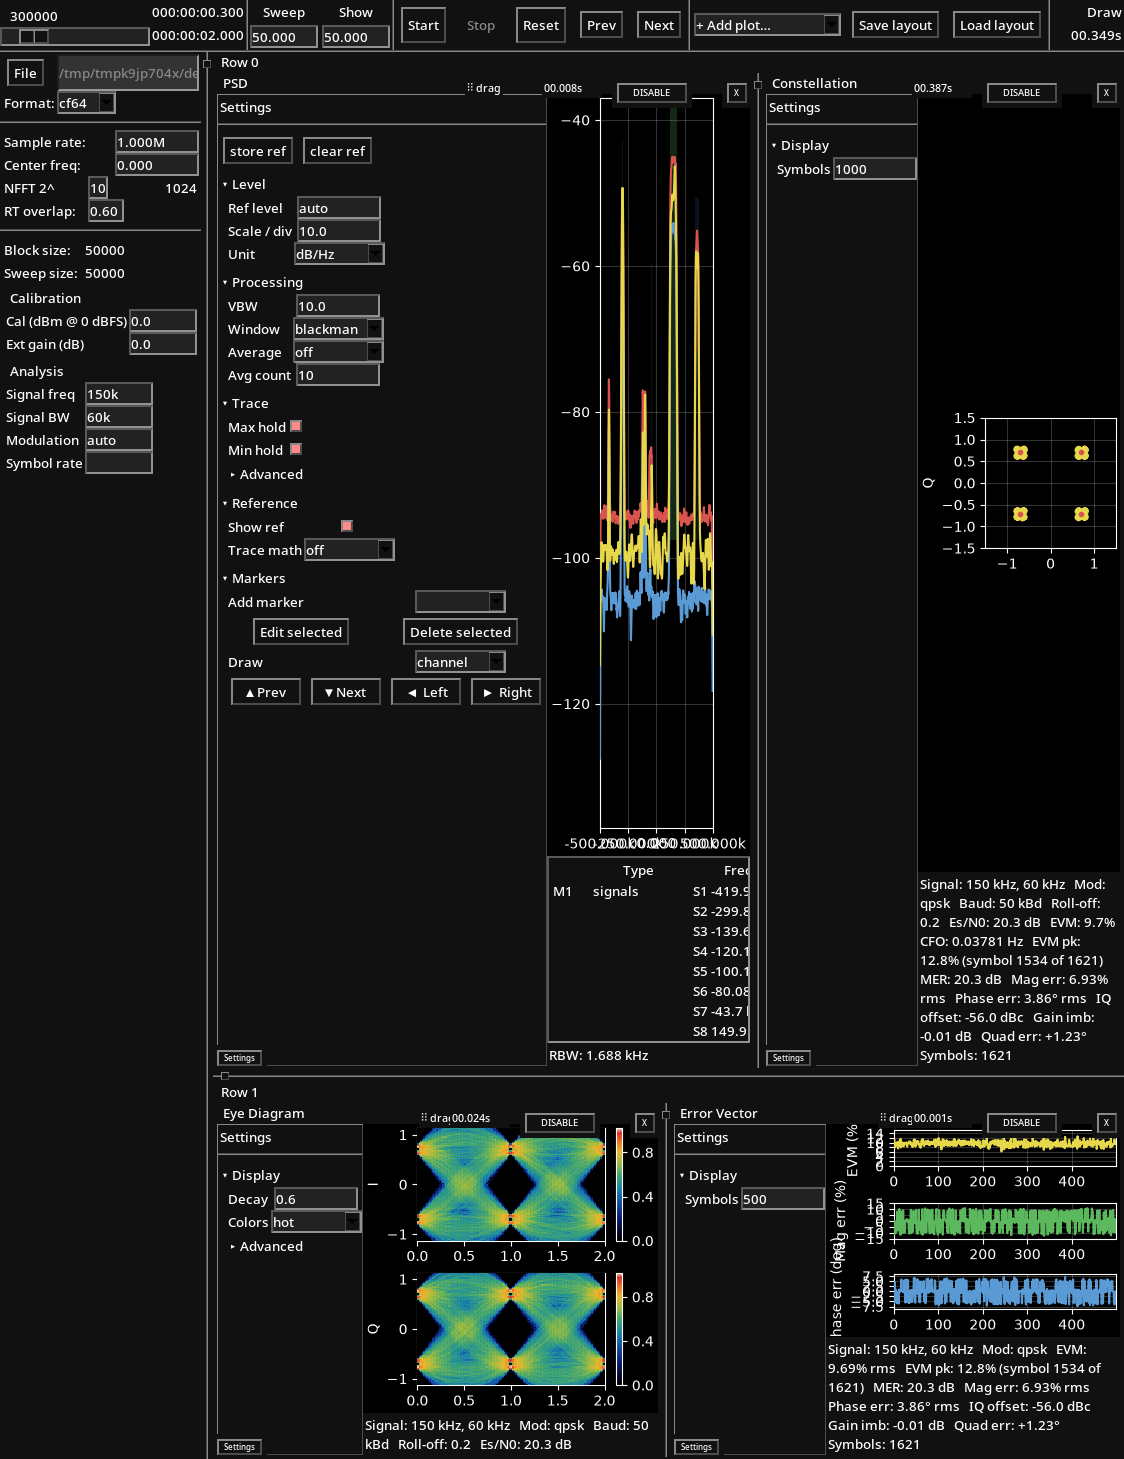
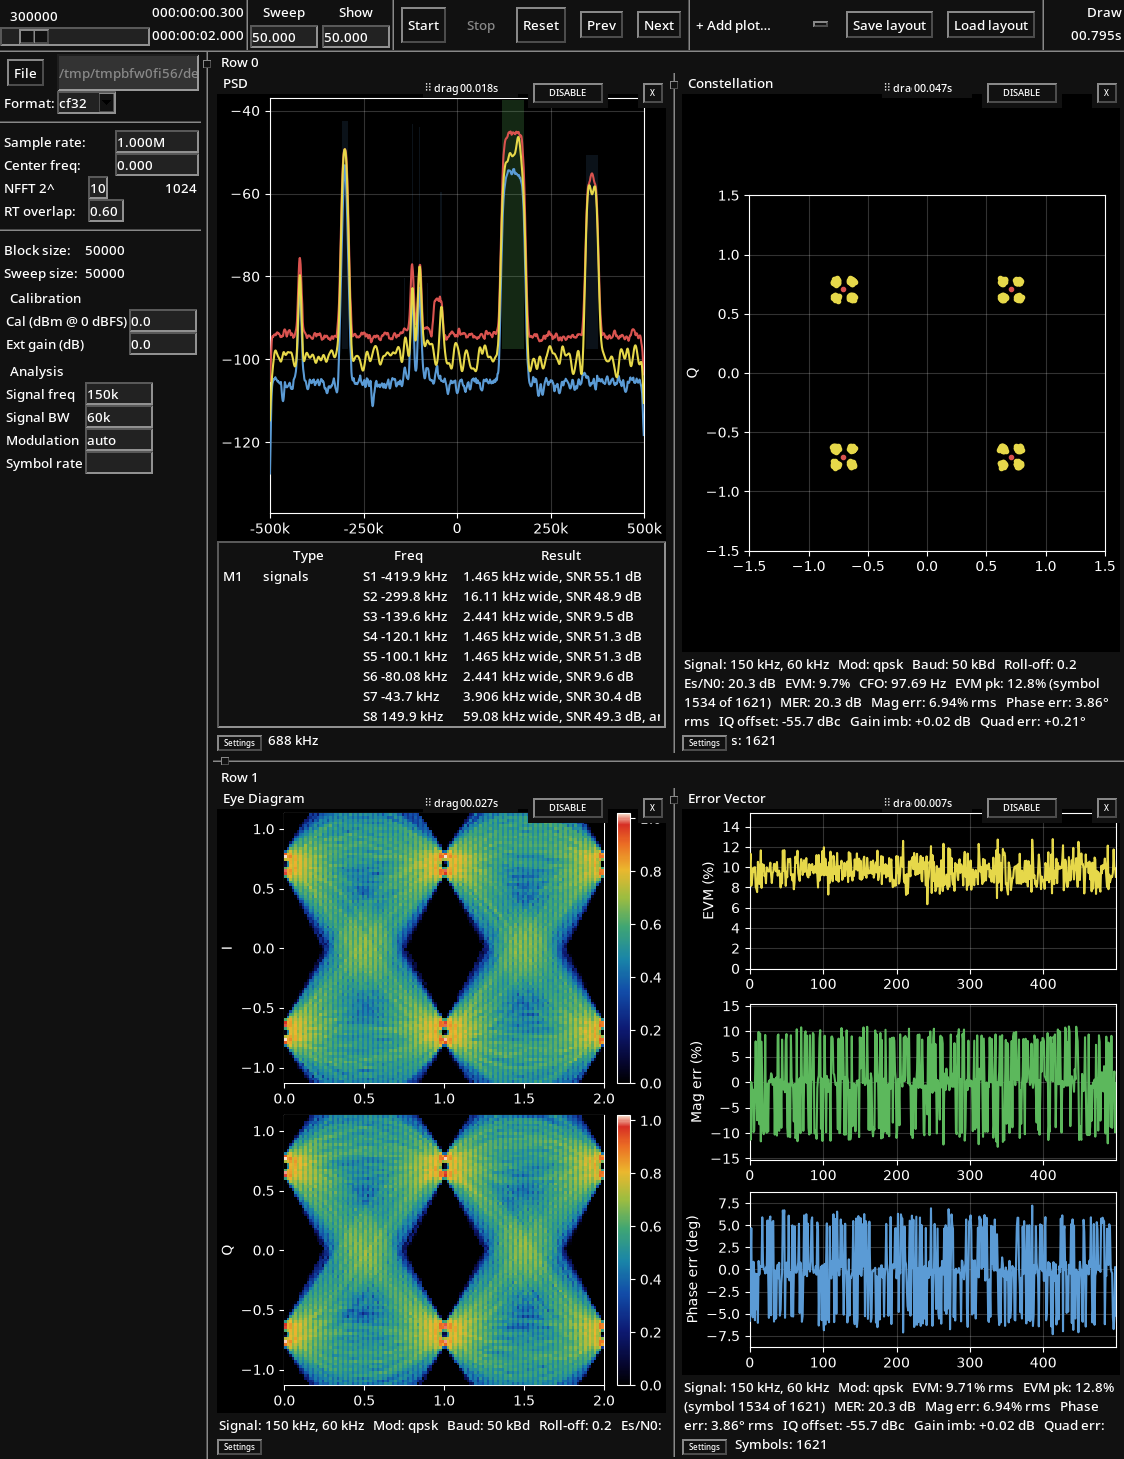
Gallery tk screenshots without settings columns; every plot listed in the plots guide
tools/screenshots.py closes each pane's settings column and splits rows and
panes evenly before shooting, so the tk plots fill their panes. The plots
guide opens with a table of every plot by category (RPPS ones in italics),
and test_every_plot_is_listed keeps it in step with the registry.

diff --git a/tests/test_docs.py b/tests/test_docs.py
@@ -75,3 +75,18 @@ def test_gen_docs(tmp_path):
     assert "## pyspecan.plots" in full and "## pyspecan.controller.WEB.wire" in full
     assert '[plot "PSD"]' in full
     assert len(full) < 240_000, f"llms-full.txt is {len(full)} bytes: about {len(full)//4} tokens"
+
+
+def test_every_plot_is_listed():
+    """The plots guide's table lists every built in plot under its category, the DSP ones in italics"""
+    from pyspecan.plots import PLOTS
+    rows = re.findall(r"^\| ([^|]+?) \| ([^|]+?) \|$", (DOCS / "guide" / "plots.md").read_text(encoding="utf-8"), re.M)
+    listed = {name.strip(): (cat, name.strip().startswith("*")) for cat, names in rows for name in names.split(",")}
+    listed = {name.strip("*"): v for name, v in listed.items()}
+    for name, cls in PLOTS.items():
+        if not cls.__module__.startswith("pyspecan.plots."):
+            continue # an extension's
+        assert name in listed, f"{name} is not in docs/guide/plots.md's table of plots"
+        cat, italic = listed[name]
+        assert cat == cls.about()["category"], f"{name} is listed under {cat}, its category is {cls.about()['category']}"
+        assert italic == cls.__module__.startswith("pyspecan.plots.dsp."), f"{name}: italic in the table iff it needs RPPS"

diff --git a/tools/screenshots.py b/tools/screenshots.py
@@ -161,6 +161,16 @@ def shoot_tk(scene: Scene, cap: pathlib.Path, out: pathlib.Path):
             time.sleep(0.01)
     try:
         pump(1.0)
+        for pid, pane in ctrl.panels.panes.items(): # the plots, not their settings columns
+            if pane.pane.fr_sets.winfo_manager():
+                ctrl.panels.toggle_settings(pid)
+        pump(0.3)
+        rows = ctrl.panels.panel.main # rows of even height, columns of even width
+        for k in range(len(rows.panes()) - 1):
+            rows.sashpos(k, rows.winfo_height() * (k + 1) // len(rows.panes()))
+        for row in ctrl.panels.rows:
+            for k in range(len(row.main.panes()) - 1):
+                row.main.sashpos(k, row.main.winfo_width() * (k + 1) // len(row.main.panes()))
         for k in range(scene.steps):
             if k == scene.store_ref:
                 for pid, plot in list(ctrl.plots.plots.items()):

diff --git a/docs/guide/plots.md b/docs/guide/plots.md
@@ -6,6 +6,20 @@ uses and what it does to it, what it shows, what to use it for, and roughly what
 [Performance](performance.md)). The web view and tkGUI draw them all, 3D included (drag a 3D plot to turn it, double
 click to reset it); the console draws all but 3D.
 
+Every plot, by the category pickers list it under (*italic*: with RPPS, see [DSP plots](dsp.md)):
+
+| Category | Plots |
+|---|---|
+| Spectrum | PSD, Persistence, FFT, Sweep |
+| Time-frequency | Spectrogram, RT Spectrogram, 3D Spectrogram, Surface Spectrogram, Scalogram |
+| Time domain | IQ, IQ 3D, PMF, Phasor, IQ Density, Scope, Autocorrelation |
+| Measurements | CCDF, Power vs Time, Occupancy, Marker Trend, Phase Noise |
+| Analog demodulation | Frequency vs Time, *Analog Demod* |
+| Digital demodulation | *Constellation*, *Vector Diagram*, *Constellation Density*, *3D Constellation*, *Eye Diagram*, *Symbol Table* |
+| Modulation quality | *Error Vector*, *Error Vector Spectrum* |
+| Channel and signal analysis | *Network Analyzer*, *Impulse Response*, *Cyclic Spectrum*, *Waveform ID*, *Hopping*, *Bursts* |
+| Decoding | *Signal Profile*, *Frame Raster*, *Decode* |
+
 ## Spectrum
 
 - PSD: four analyzer traces, each clear/write, average, max hold, min hold, view or blank, a marker trace, detector, a
